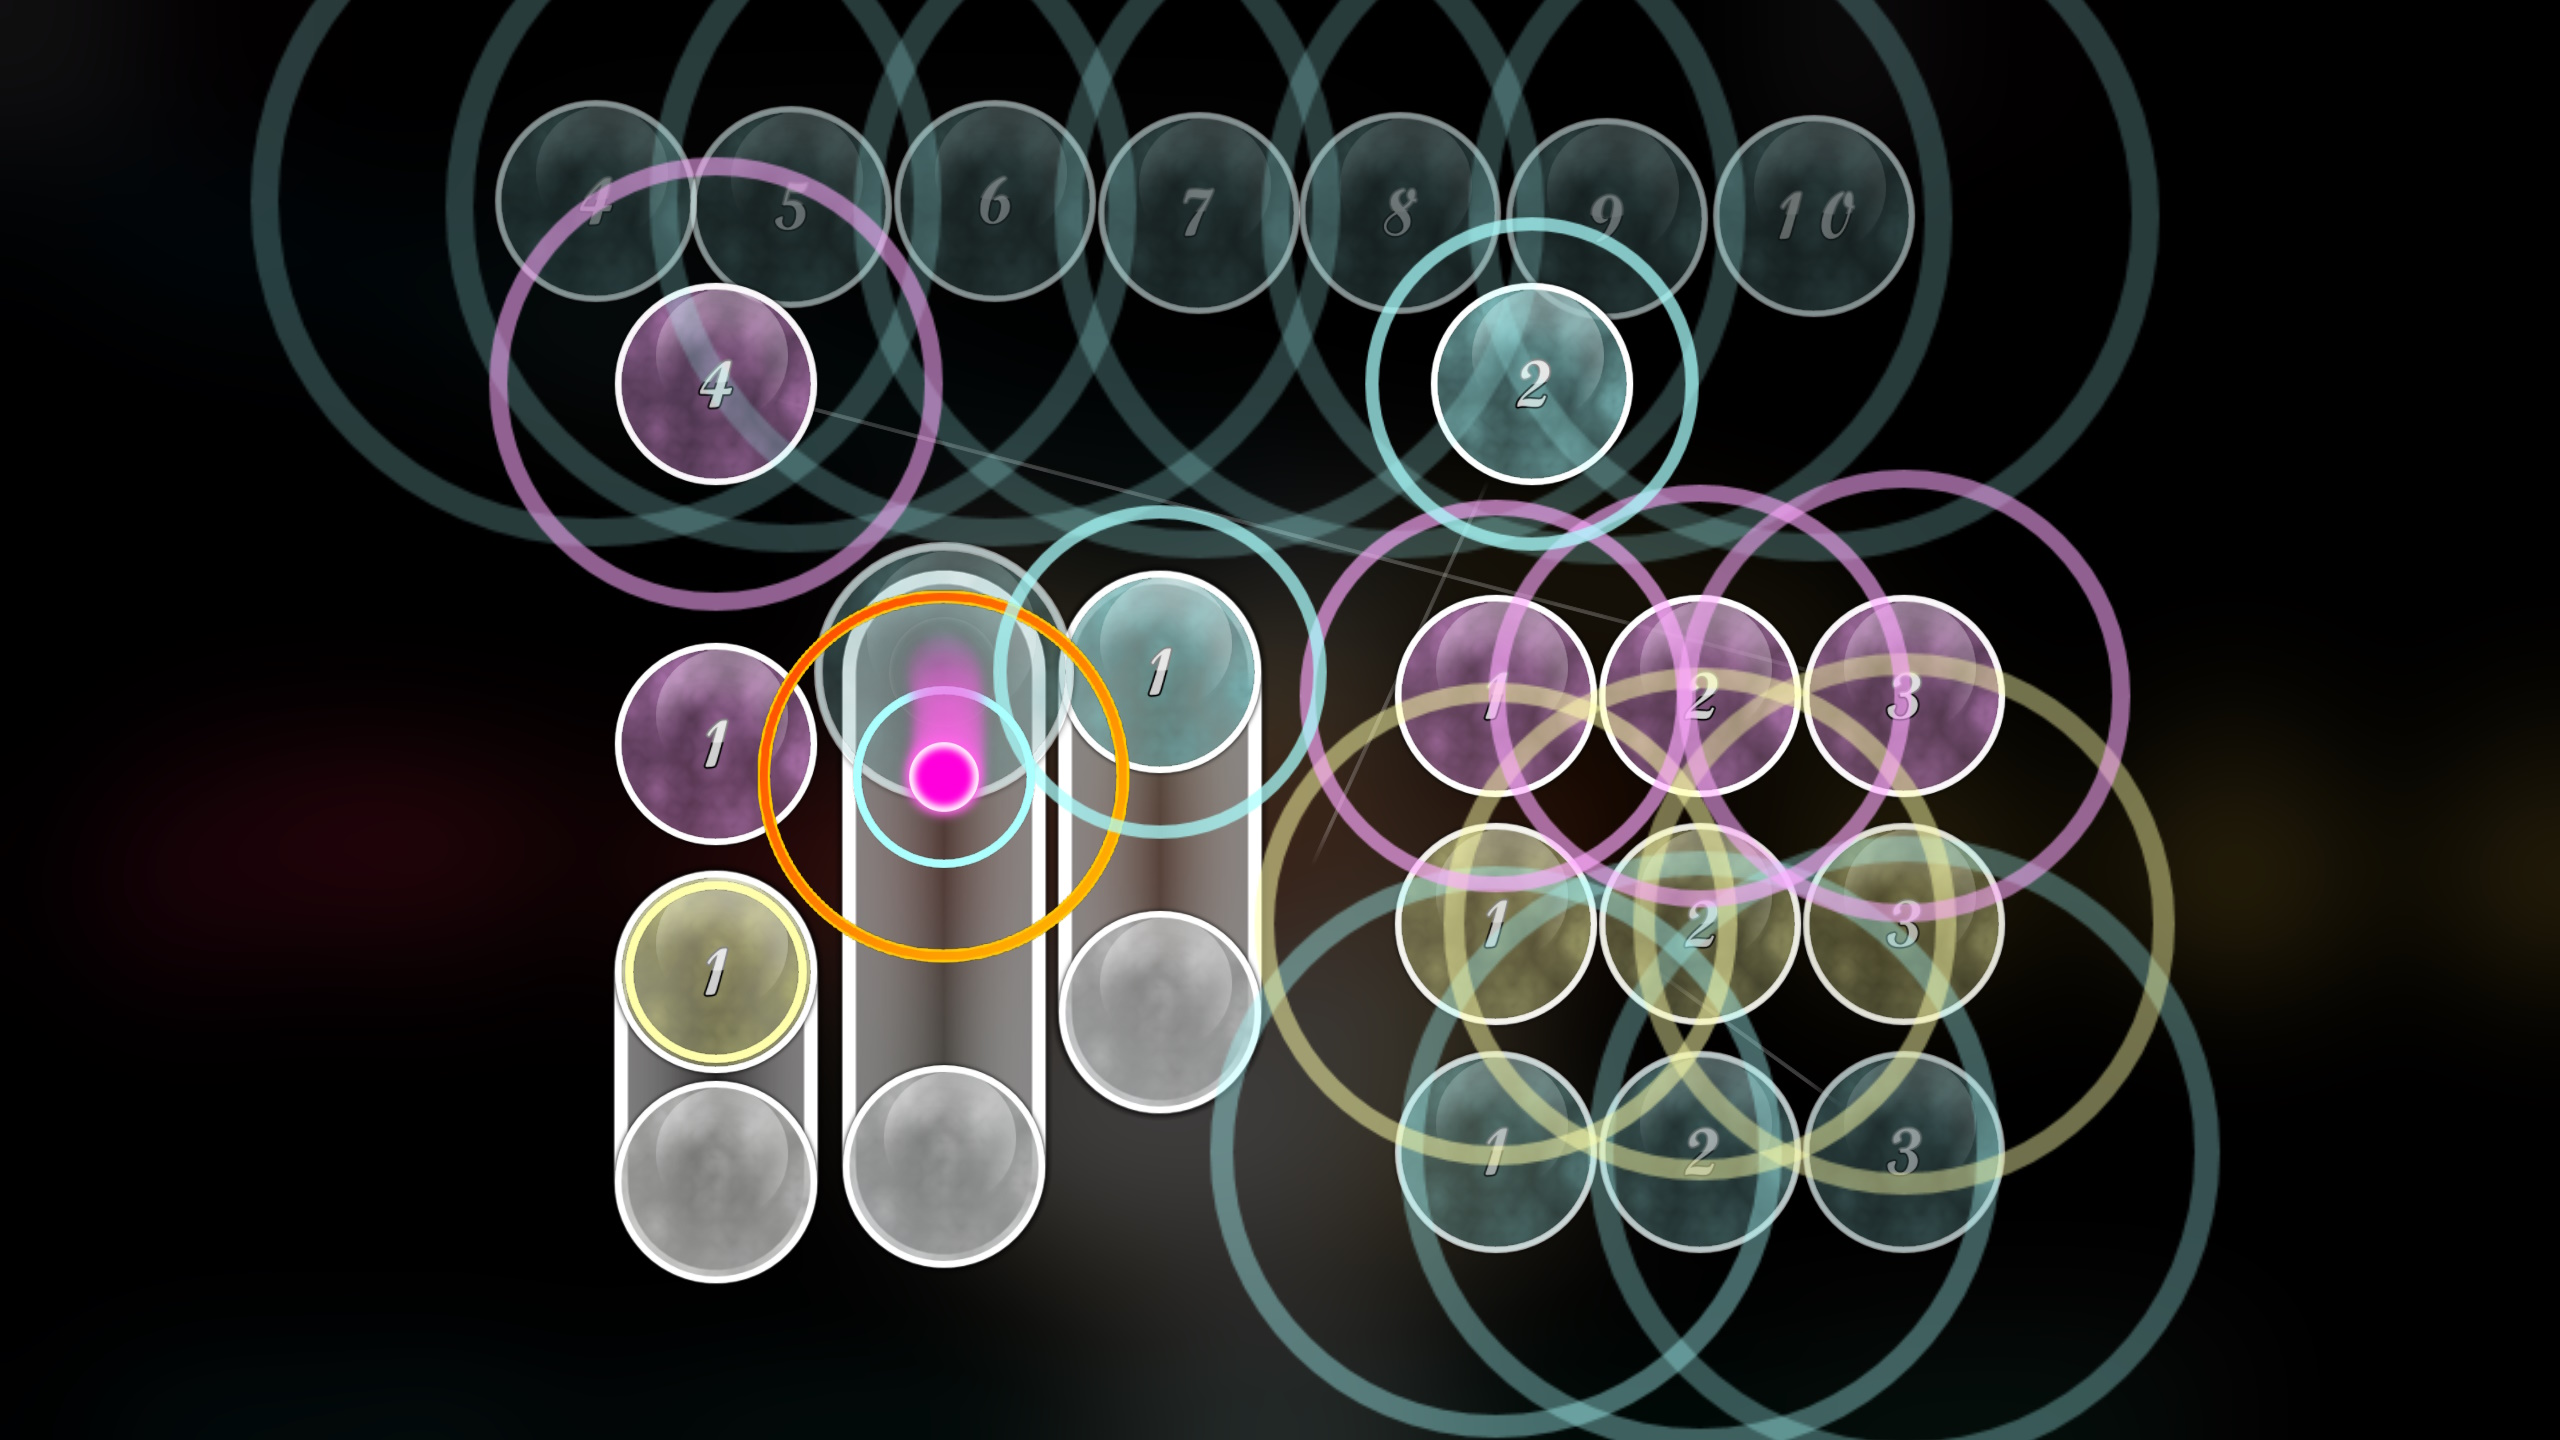
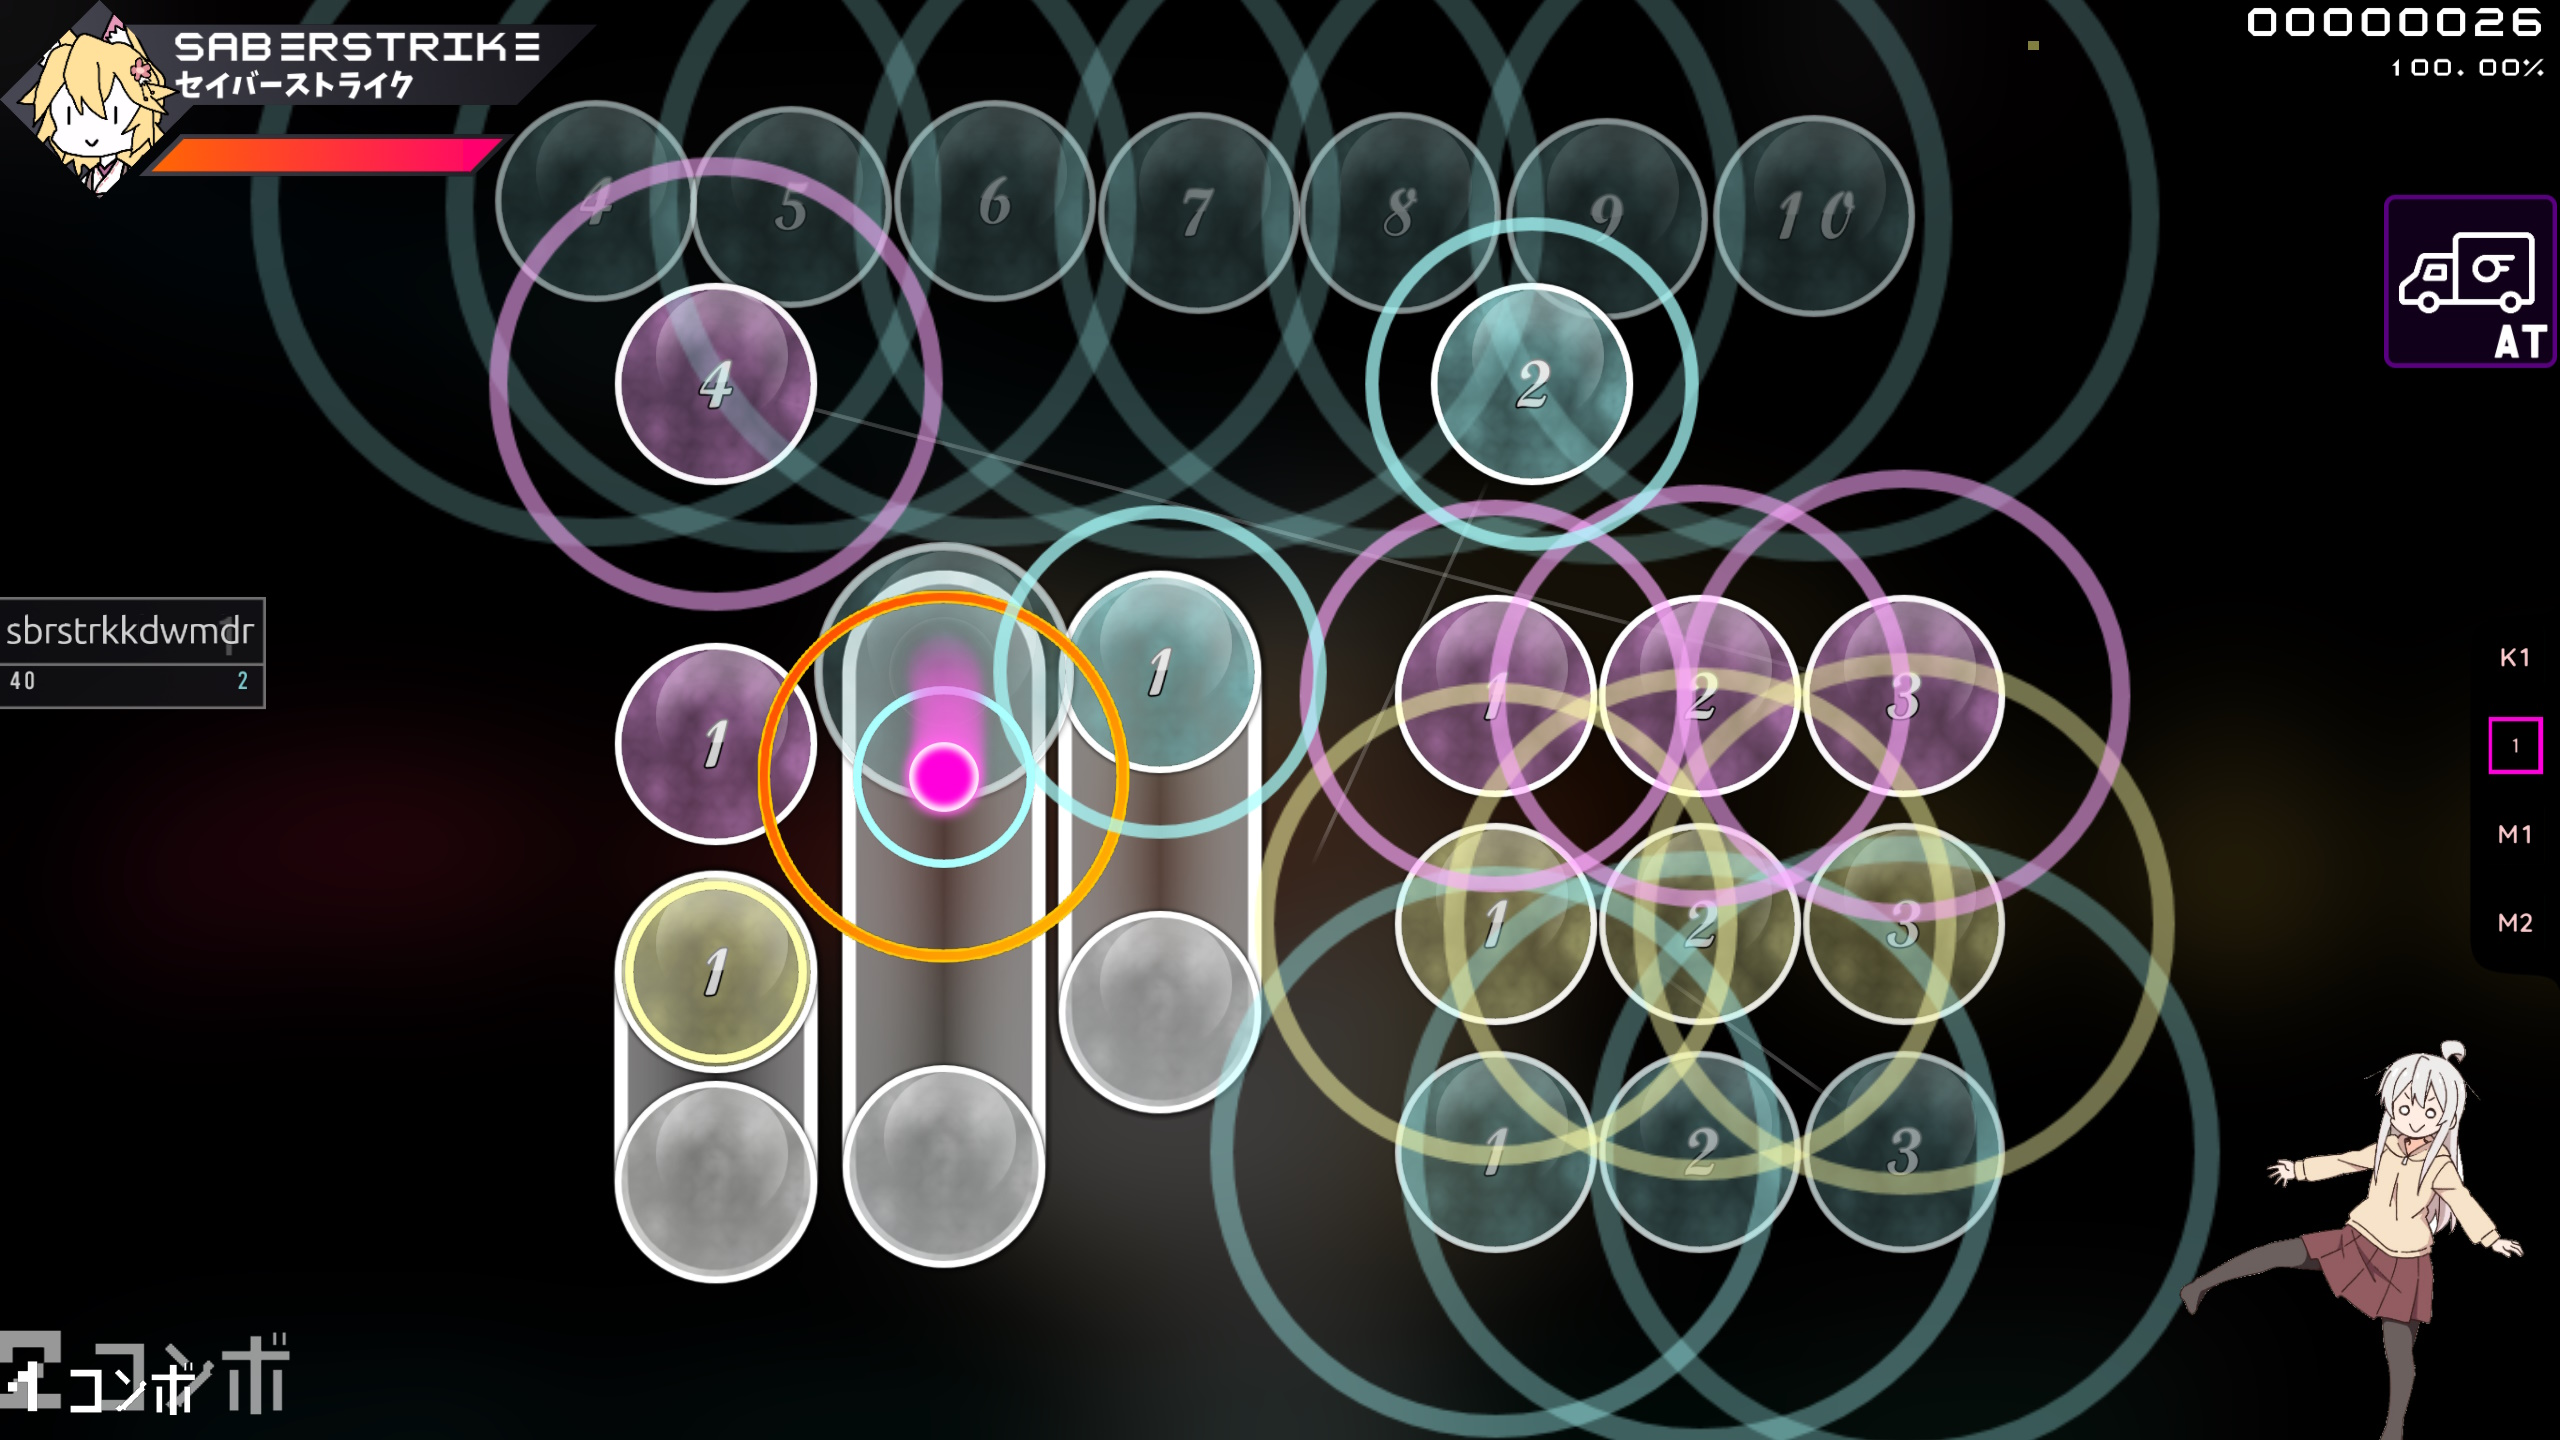
fix oldstyle img

diff --git a/osu-skin/main-skin/12sbrstrkkdwv12.html b/osu-skin/main-skin/12sbrstrkkdwv12.html
@@ -136,7 +136,7 @@
             <p style="color:white">OldStyle</p>
         </center>
         <a class="a" href="https://www.mediafire.com/file/ulbgvevhz3hgs5w/-_sbrstrkkdw_v12_OldStyle.osk/file" target="_blank">
-            <img src="../image/12sbrstrkkdwmdrv12/game-dot.jpg" alt="image" width="880" height="495">
+            <img src="../image/12sbrstrkkdwmdrv12/game-oldstyle.jpg" alt="image" width="880" height="495">
         </a>
     </div>
     <div style="display:inline-block">
